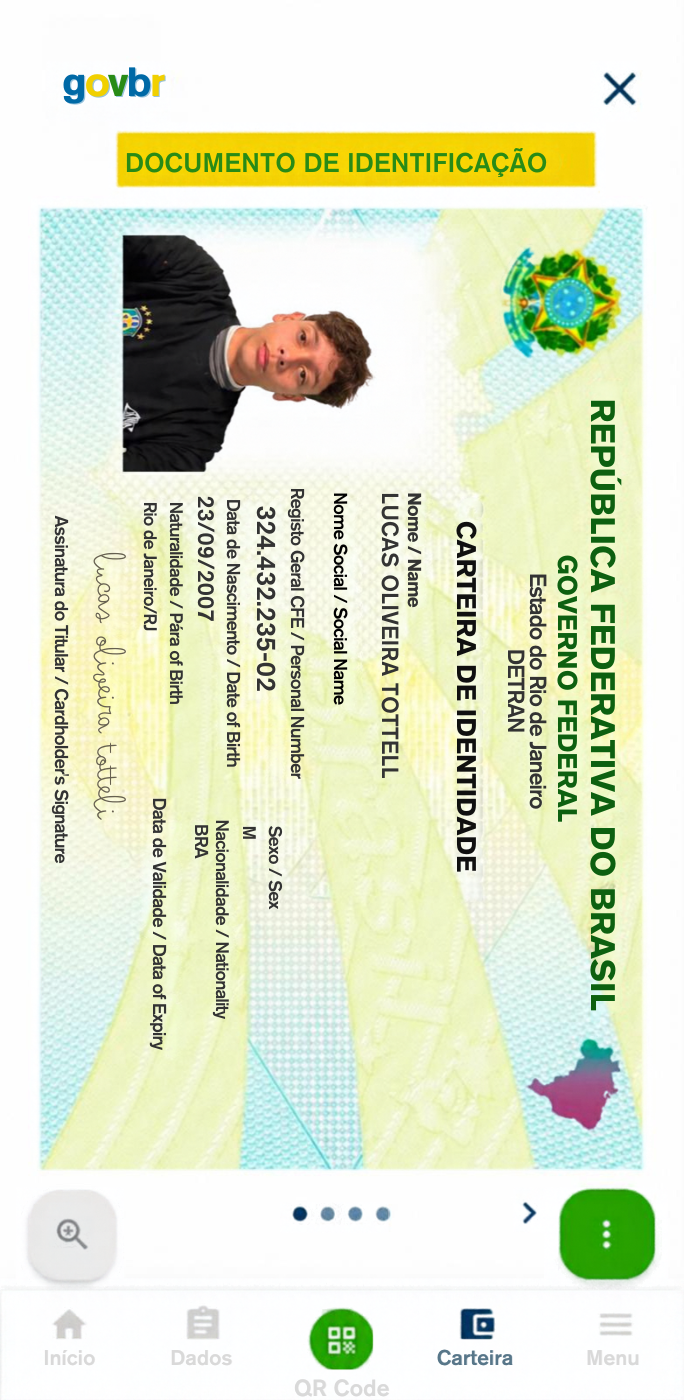
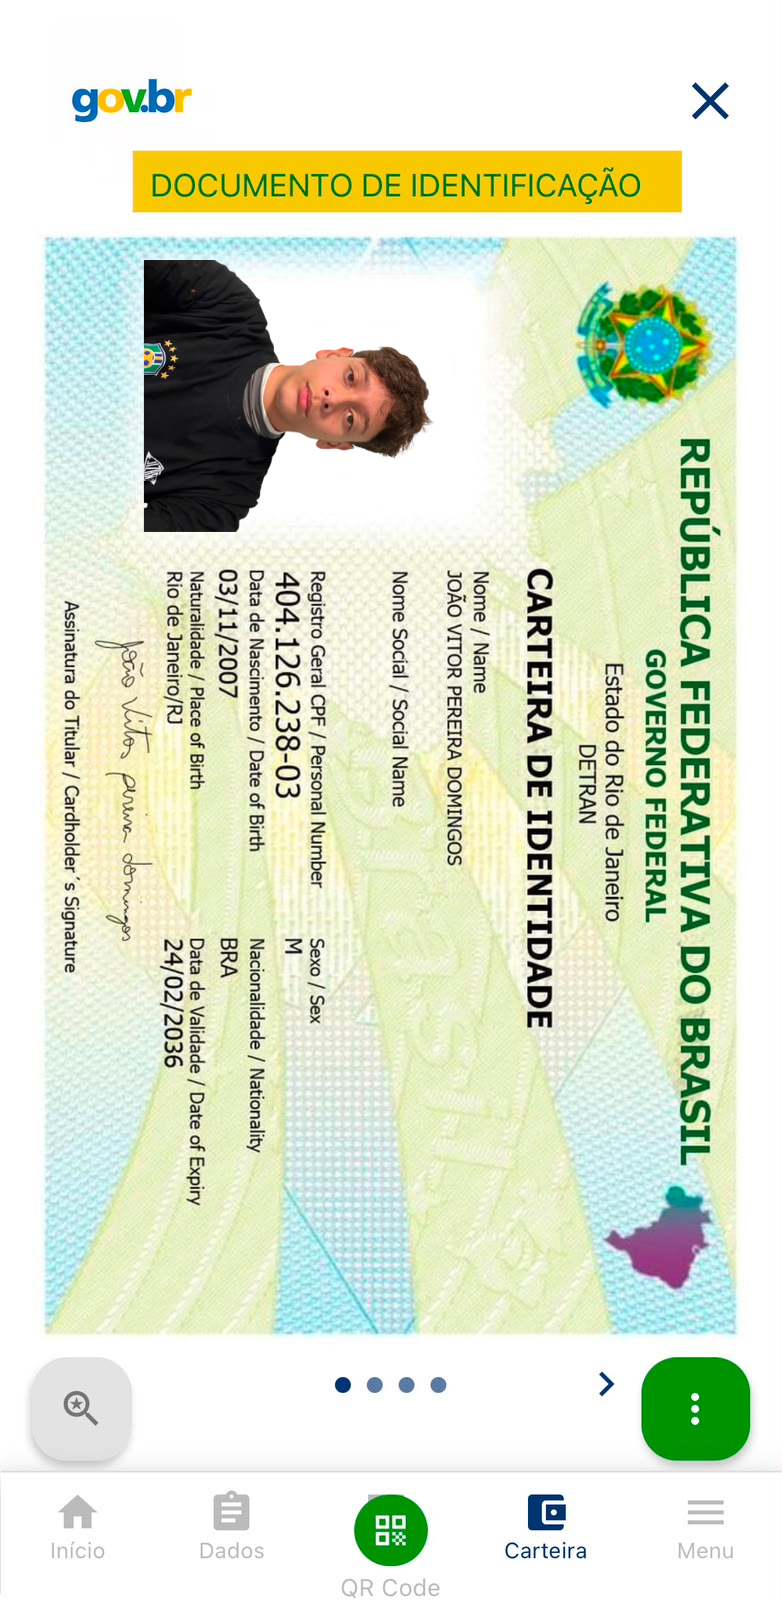
Add files via upload

diff --git a/foto1.html b/foto1.html
@@ -42,6 +42,18 @@ cursor:pointer;
 display:none;
 }
 
+.cliqueMenu, .cliqueCarteira, .seta {
+-webkit-tap-highlight-color: transparent;
+-webkit-touch-callout: none;
+-webkit-user-select: none;
+user-select: none;
+outline: none;
+}
+.tela img {
+-webkit-user-select: none;
+user-select: none;
+-webkit-user-drag: none;
+}
 .seta{
 position:absolute;
 right:13%;
@@ -90,7 +102,7 @@ document.getElementById("foto").src=fotos[atual];
 
 <div class="tela">
 
-<img id="foto" src="foto1.jpg">
+<img id="foto" src="foto1.jpg" draggable="false">
 
 <div class="cliqueMenu" onclick="abrirCarteira()"></div>
 
